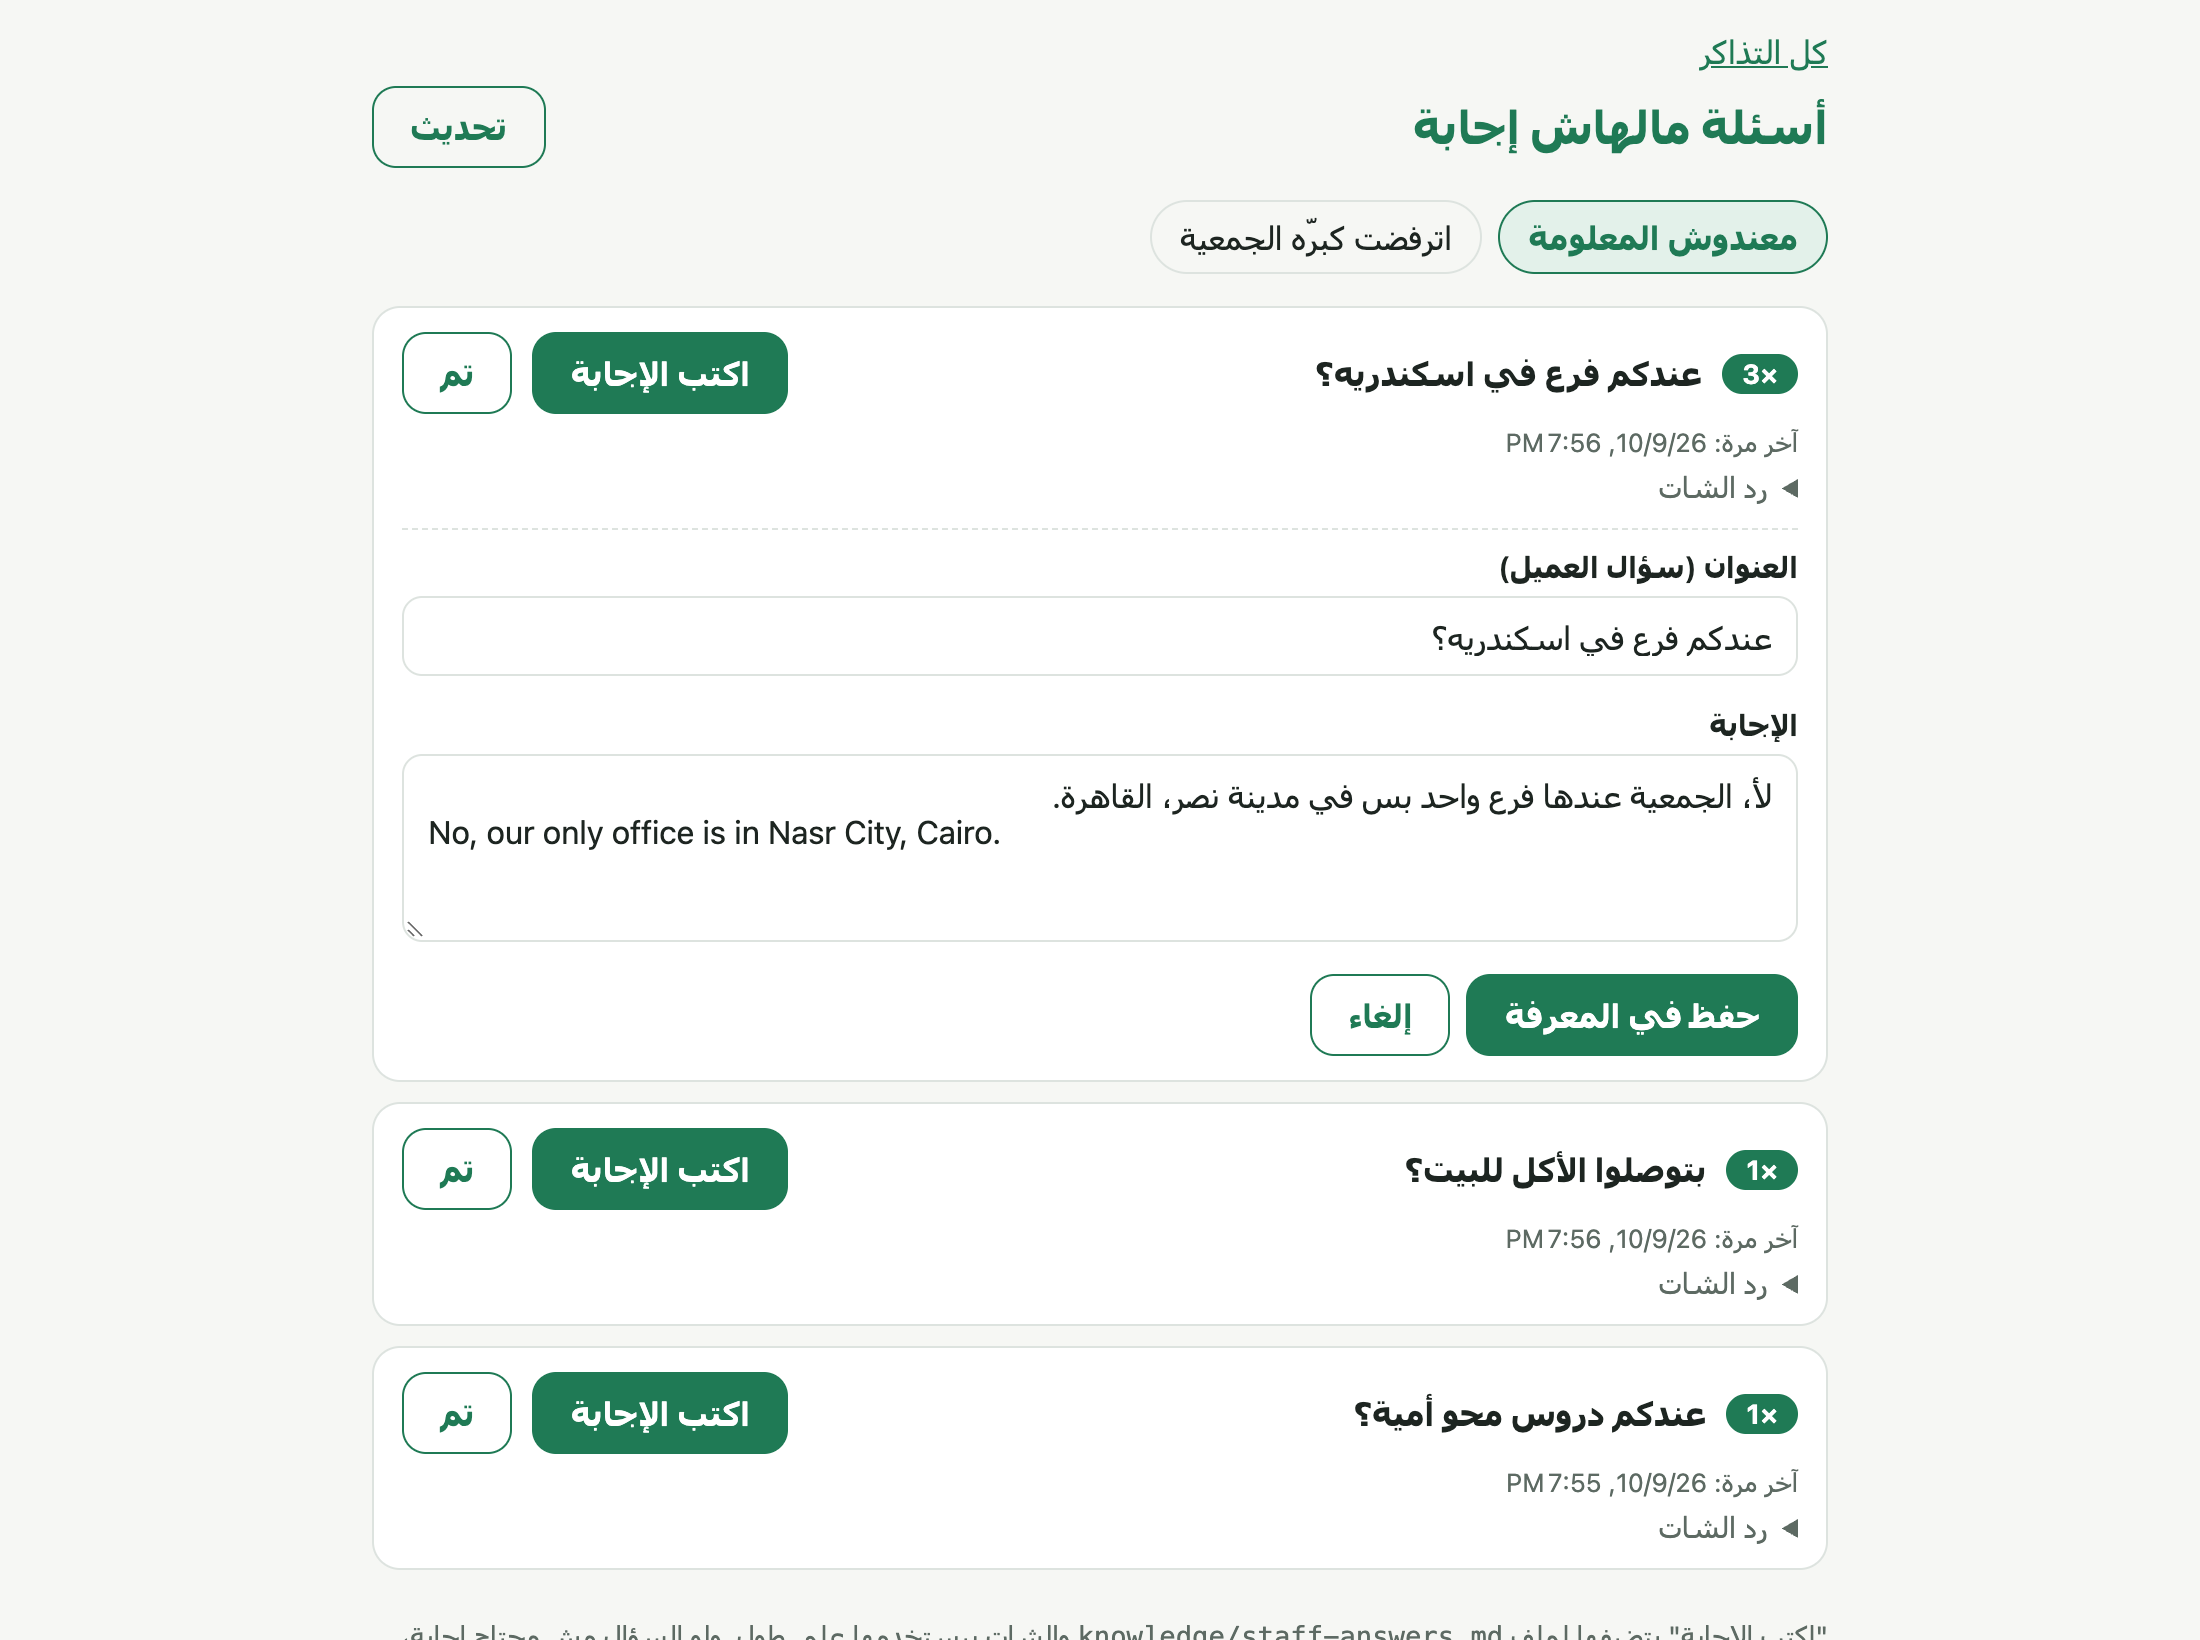
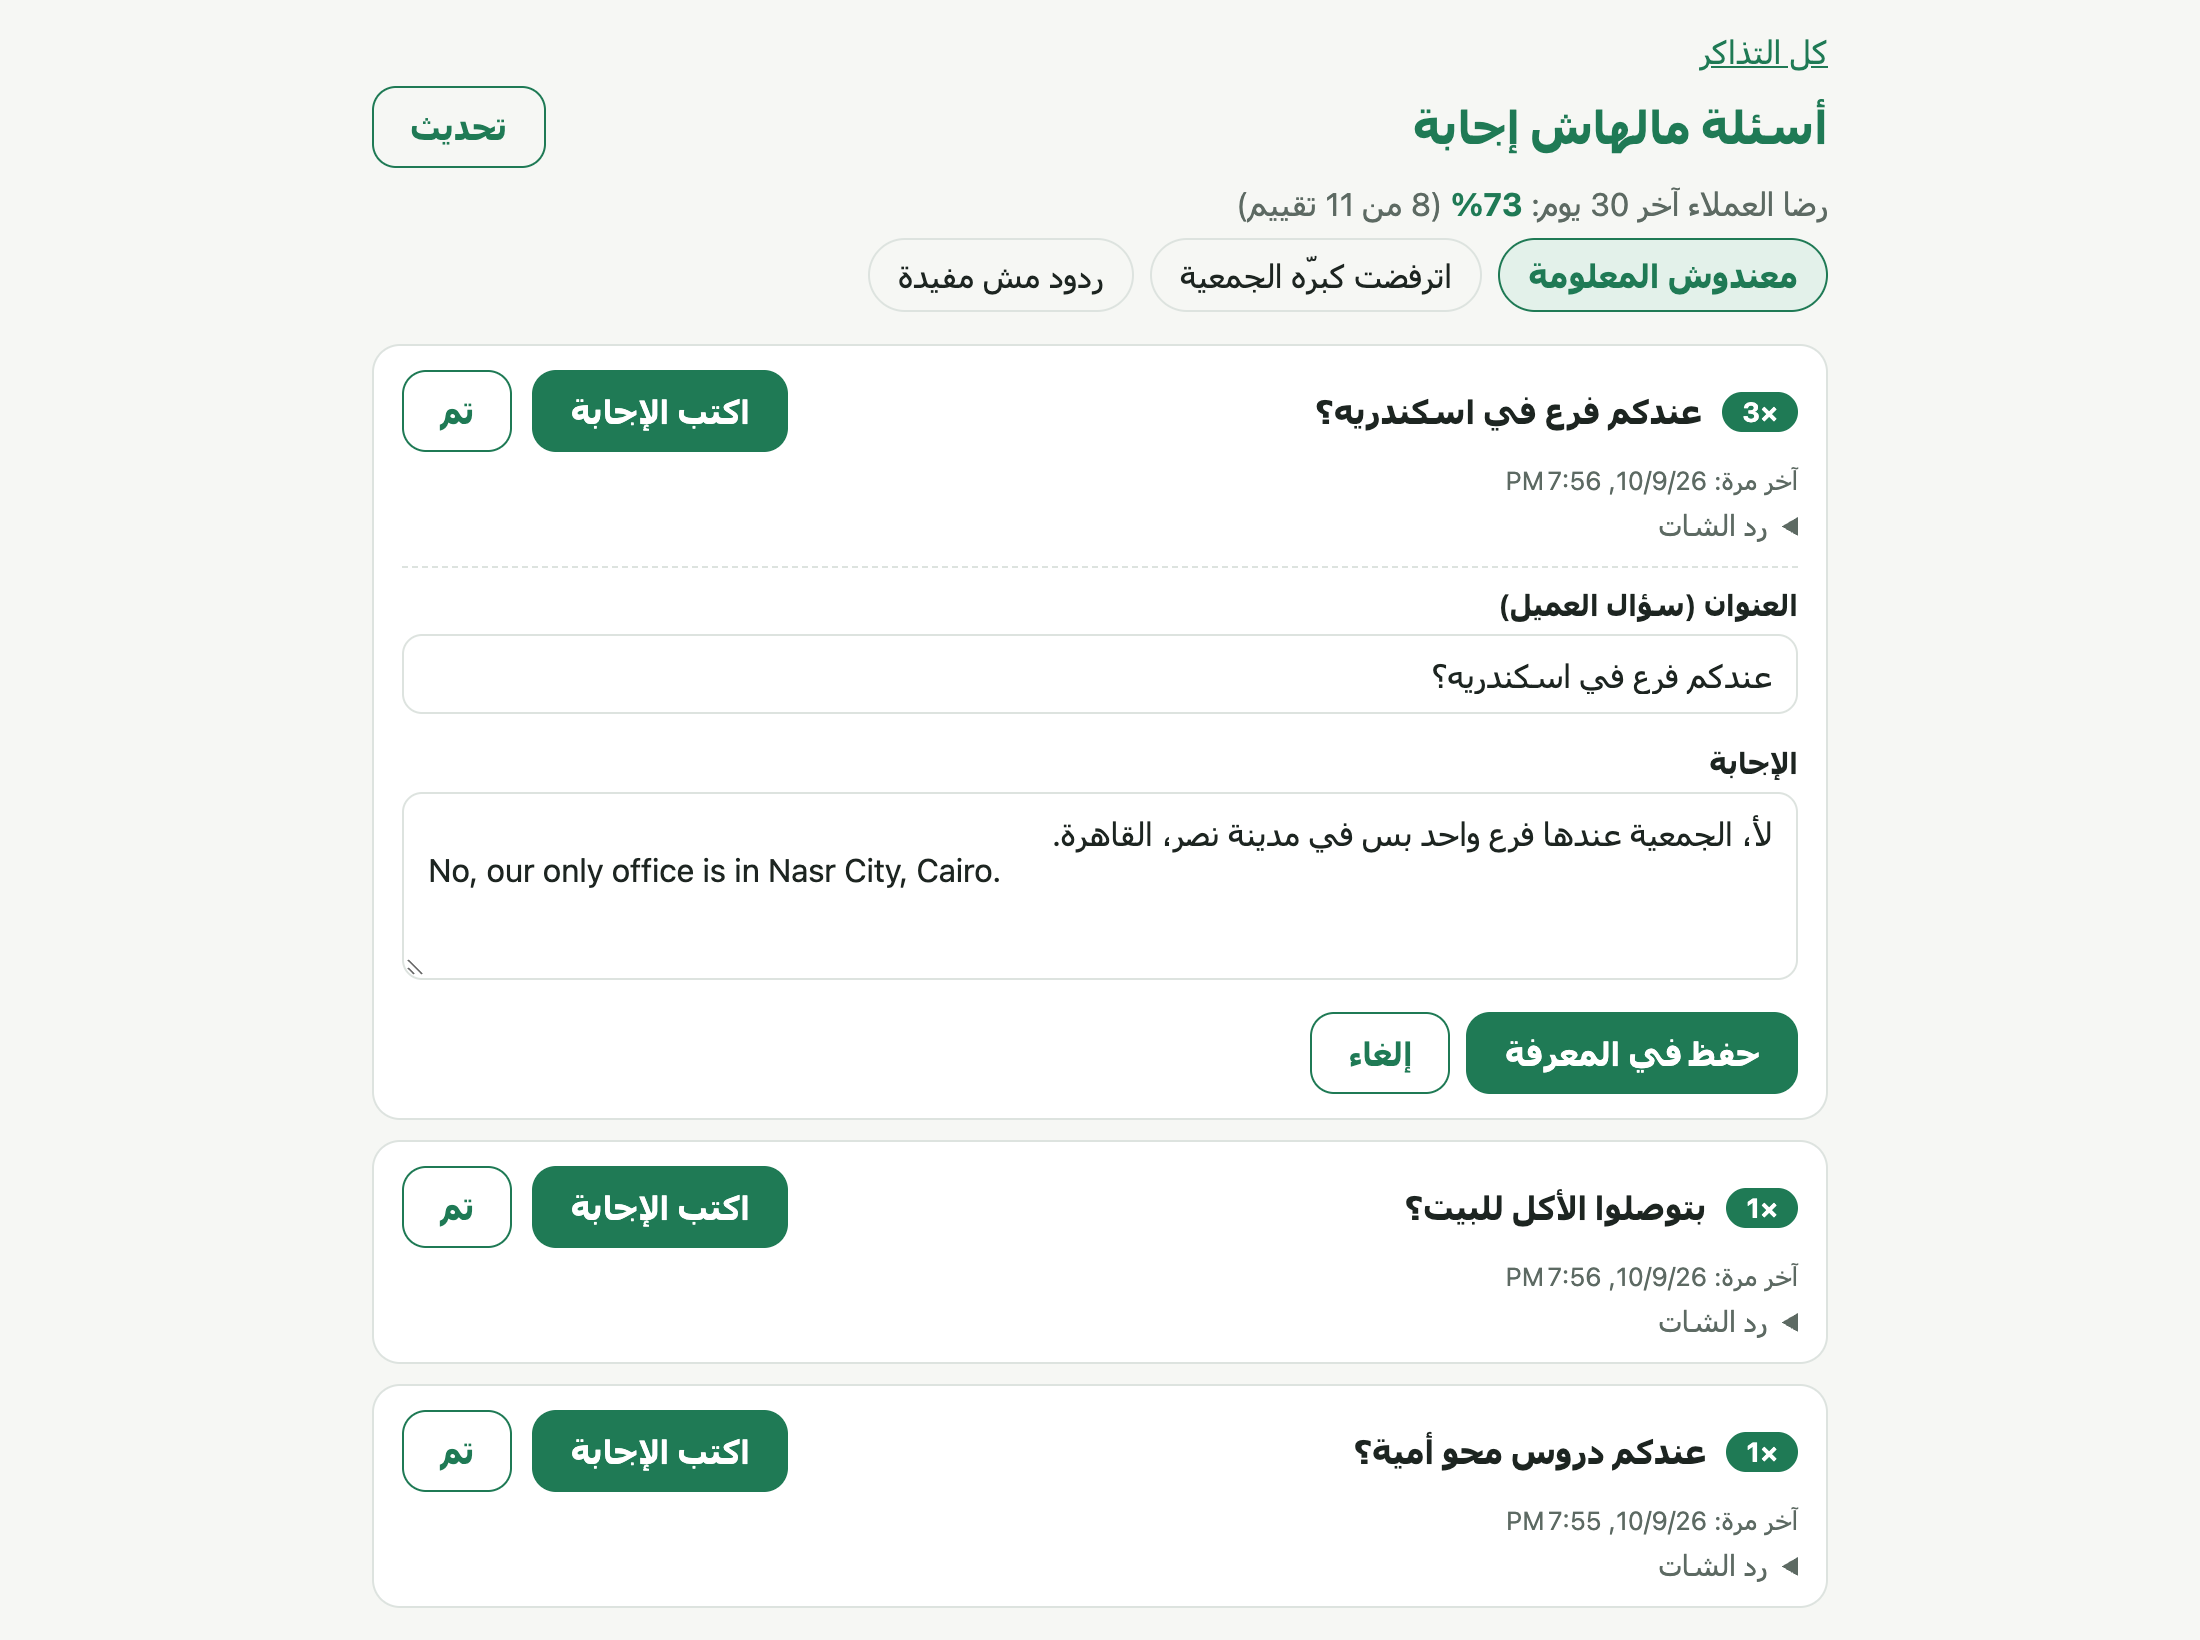
docs: README for the finished project; screenshots with ratings and satisfaction
The practice exercises are now built into the project, so their file is removed.

diff --git a/README.md b/README.md
@@ -19,7 +19,9 @@ Everything runs **locally and for free**: Angular 22 + Express 5 + SQLite + [Oll
 |---|---|
 | ![Ticket list](docs/screenshots/staff-tickets-dark.png) | ![Unanswered questions with the answer form open](docs/screenshots/staff-gaps.png) |
 
-<p align="center"><img src="docs/screenshots/chat-mobile.png" alt="Chat on a phone" width="260"></p>
+| Customers' 👎 and satisfaction | On a phone |
+|---|---|
+| ![Disliked replies and satisfaction](docs/screenshots/staff-disliked.png) | <img src="docs/screenshots/chat-mobile.png" alt="Chat on a phone" width="260"> |
 
 ## What it does
 
@@ -27,12 +29,17 @@ Everything runs **locally and for free**: Angular 22 + Express 5 + SQLite + [Oll
 - **Streaming chat:** replies appear word by word over Server-Sent Events. A Stop button cancels the model.
 - **Right language every time:** the reply language is chosen in code from the customer's message, not left to the model.
 - **Grounded answers:** answers come from `knowledge/*.md`. Under each reply a small line says which sections were read.
-- **Escalation:** "حوّل لموظف" (talk to a person) turns the conversation into a ticket with its transcript. A support form does the same without a chat.
+- **Escalation:** "حوّل لموظف" (talk to a person) turns the conversation into a ticket with its transcript, then shows the ticket number. A support form does the same without a chat.
+- **Rating:** 👍 / 👎 under each answer from the knowledge.
 
 **For staff** (`/staff`, login required)
 - **Tickets:** classified by the model into category and priority. Staff can filter them and update status, category or priority.
-- **Unanswered questions:** questions the chat could not answer, grouped and sorted by how often they were asked.
+- **Unanswered questions:** three tabs, each grouped and sorted by how often it was asked:
+  - questions the chat could not answer;
+  - questions refused as off-topic;
+  - replies customers rated 👎.
   - **"اكتب الإجابة"** (write the answer) adds the answer to the knowledge, and the chat uses it **immediately, without a restart**.
+  - The page also shows customer satisfaction for the last 30 days. The tickets page shows how many questions are waiting.
 
 ## How a chat message is answered
 
@@ -125,12 +132,12 @@ STAFF_EMAIL=… STAFF_PASSWORD=… npm run serve:ssr:ai-helpdesk   # http://loca
 ## Tests
 
 ```bash
-npx ng test --watch=false   # 302 tests (Vitest), no Ollama needed
+npx ng test --watch=false   # 322 tests (Vitest), no Ollama needed
 npm run build
 ```
 
 - **Server:** the server logic lives in plain functions, so the tests never need Express or a running model.
-- **Database:** tests use a real in-memory SQLite database.
+- **Database:** tests use a real in-memory SQLite database. Schema changes are versioned (`PRAGMA user_version`), and a test upgrades a database made by the older version.
 - **Angular:** components and services are tested with `HttpTestingController`.
 
 ## Project layout
@@ -141,7 +148,7 @@ src/app/chat/        Chat UI, SSE parsing, escalation form
 src/app/staff/       Staff login, tickets, unanswered questions
 knowledge/           What the assistant knows (Markdown)
 docs/superpowers/    Design specs and implementation plans for every phase
-docs/EXERCISES.md    Three practice tasks on this codebase
+docs/screenshots/    The images in this README
 ```
 
 ## Security notes
@@ -151,6 +158,7 @@ docs/EXERCISES.md    Three practice tasks on this codebase
 - **Sessions:** random tokens stored only as SHA-256 hashes, in `HttpOnly; SameSite=Strict` cookies.
 - **Staff routes:** declared in one tested route table, so a route can't become public by accident.
 - **Stored questions:** capped at 500 characters. Handled questions are deleted after 90 days.
+- **Host header:** the production server only answers to `ALLOWED_HOSTS` (protection against host-header SSRF).
 
 ## Limits
 
